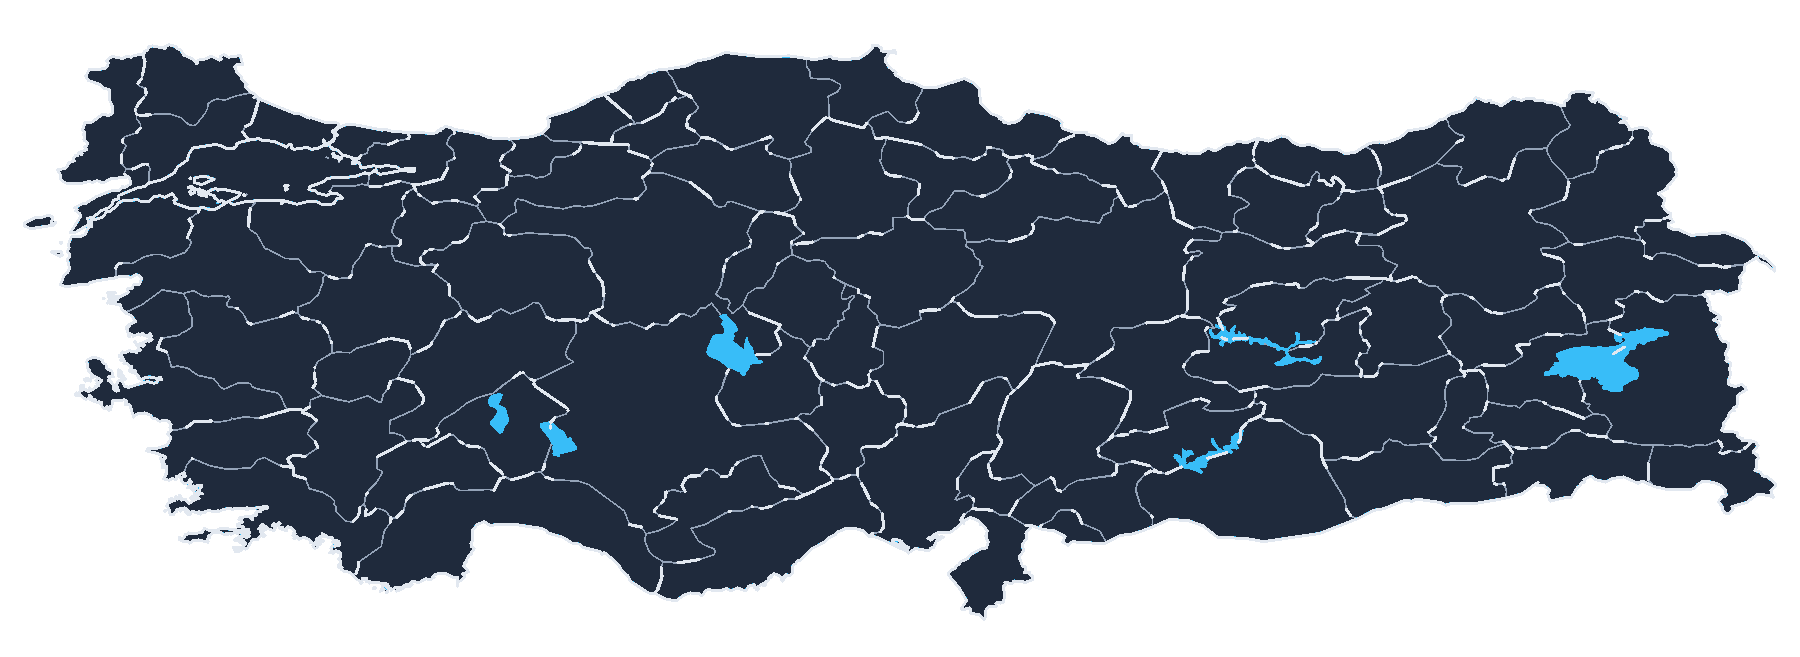
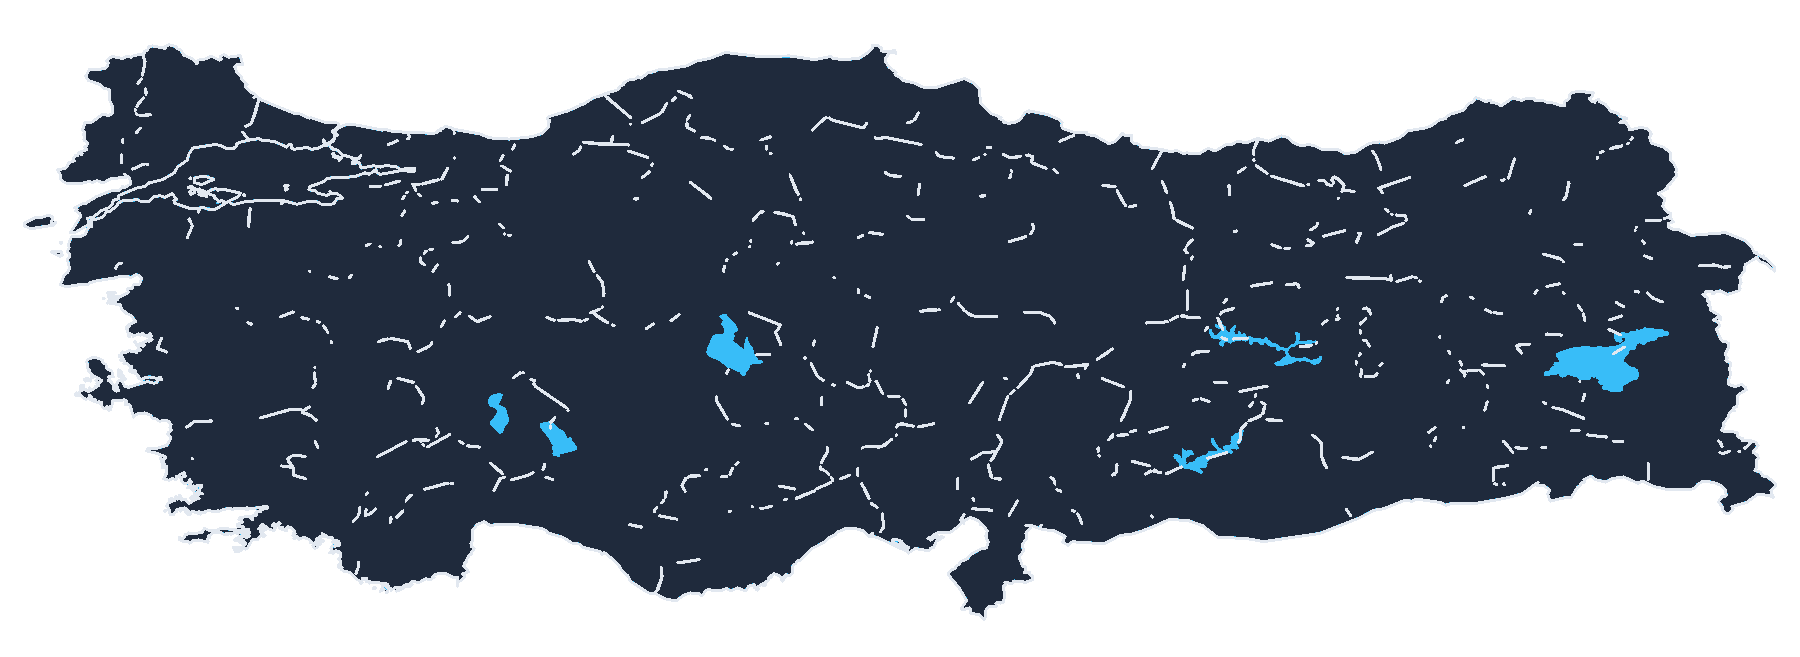
fix(map): restore pure Dilsiz Harita for map point game, add province border toggle, bump to v1.0.5+6

Changed region(s): [[0.9022, 0.6697, 0.9333, 0.7002]]

diff --git a/lib/screens/map_point_game_screen.dart b/lib/screens/map_point_game_screen.dart
@@ -29,6 +29,7 @@ class _MapPointGameScreenState extends State<MapPointGameScreen> with SingleTick
   String _lastFeedback = '';
   Color _lastFeedbackColor = const Color(0xFF10B981);
   bool _showHint = false;
+  bool _showCityBorders = false; // Varsayılan: Dilsiz Harita (İl sınırları kapalı, ÖSYM KPSS standardı)
 
   late AnimationController _pulseController;
   final TransformationController _transformController = TransformationController();
@@ -597,16 +598,20 @@ class _MapPointGameScreenState extends State<MapPointGameScreen> with SingleTick
                                   child: Stack(
                                     fit: StackFit.expand,
                                     children: [
-                                      // 1. 81 İL SINIRLARI & GÖLLER BULUNAN YÜKSEK KONTRASTLI HARİTA
+                                      // 1. DİLSİZ TÜRKİYE HARİTASI (ÖSYM KPSS Standardı: İl sınırları olmaksızın, kıyı ve göller)
                                       Positioned(
                                         left: padX,
                                         top: padY,
                                         width: mapW,
                                         height: mapH,
                                         child: Image.asset(
-                                          isDark
-                                              ? 'assets/images/maps/turkiye_haritasi_dark.png'
-                                              : 'assets/images/maps/turkiye_haritasi_light.png',
+                                          _showCityBorders
+                                              ? (isDark
+                                                  ? 'assets/images/maps/turkiye_siyasi_harita_dark.png'
+                                                  : 'assets/images/maps/turkiye_siyasi_harita_light.png')
+                                              : (isDark
+                                                  ? 'assets/images/maps/turkiye_dilsiz_harita_dark.png'
+                                                  : 'assets/images/maps/turkiye_dilsiz_harita_light.png'),
                                           fit: BoxFit.fill,
                                           filterQuality: FilterQuality.high,
                                         ),
@@ -670,6 +675,53 @@ class _MapPointGameScreenState extends State<MapPointGameScreen> with SingleTick
                                     ],
                                   ),
                                 ),
+                              ),
+                            ),
+                          ),
+                        ),
+
+                        // Sol Üst: Harita Modu Rozeti / Değiştirici (Dilsiz Harita vs. İl Sınırları)
+                        Positioned(
+                          top: 10,
+                          left: 10,
+                          child: InkWell(
+                            onTap: () {
+                              HapticFeedback.selectionClick();
+                              setState(() {
+                                _showCityBorders = !_showCityBorders;
+                              });
+                            },
+                            borderRadius: BorderRadius.circular(8),
+                            child: Container(
+                              padding: const EdgeInsets.symmetric(horizontal: 8, vertical: 4),
+                              decoration: BoxDecoration(
+                                color: _showCityBorders
+                                    ? const Color(0xFF6366F1).withValues(alpha: 0.9)
+                                    : (isDark ? Colors.black : Colors.white).withValues(alpha: 0.78),
+                                borderRadius: BorderRadius.circular(8),
+                                border: Border.all(
+                                  color: _showCityBorders ? const Color(0xFF6366F1) : cardBorder,
+                                  width: 0.8,
+                                ),
+                              ),
+                              child: Row(
+                                mainAxisSize: MainAxisSize.min,
+                                children: [
+                                  Icon(
+                                    _showCityBorders ? Icons.map_rounded : Icons.map_outlined,
+                                    size: 12,
+                                    color: _showCityBorders ? Colors.white : textSecondary,
+                                  ),
+                                  const SizedBox(width: 4),
+                                  Text(
+                                    _showCityBorders ? 'İl Sınırları: Açık' : 'Dilsiz Harita',
+                                    style: TextStyle(
+                                      fontSize: 10,
+                                      fontWeight: FontWeight.w700,
+                                      color: _showCityBorders ? Colors.white : textSecondary,
+                                    ),
+                                  ),
+                                ],
                               ),
                             ),
                           ),

diff --git a/lib/services/update_service.dart b/lib/services/update_service.dart
@@ -54,8 +54,8 @@ class UpdateService {
   static final UpdateService instance = UpdateService._internal();
   UpdateService._internal();
 
-  static const int currentVersionCode = 5;
-  static const String currentVersionName = '1.0.4';
+  static const int currentVersionCode = 6;
+  static const String currentVersionName = '1.0.5';
 
   // Primary: Netlify public CDN and GitHub raw
   static const List<String> _versionEndpoints = [
